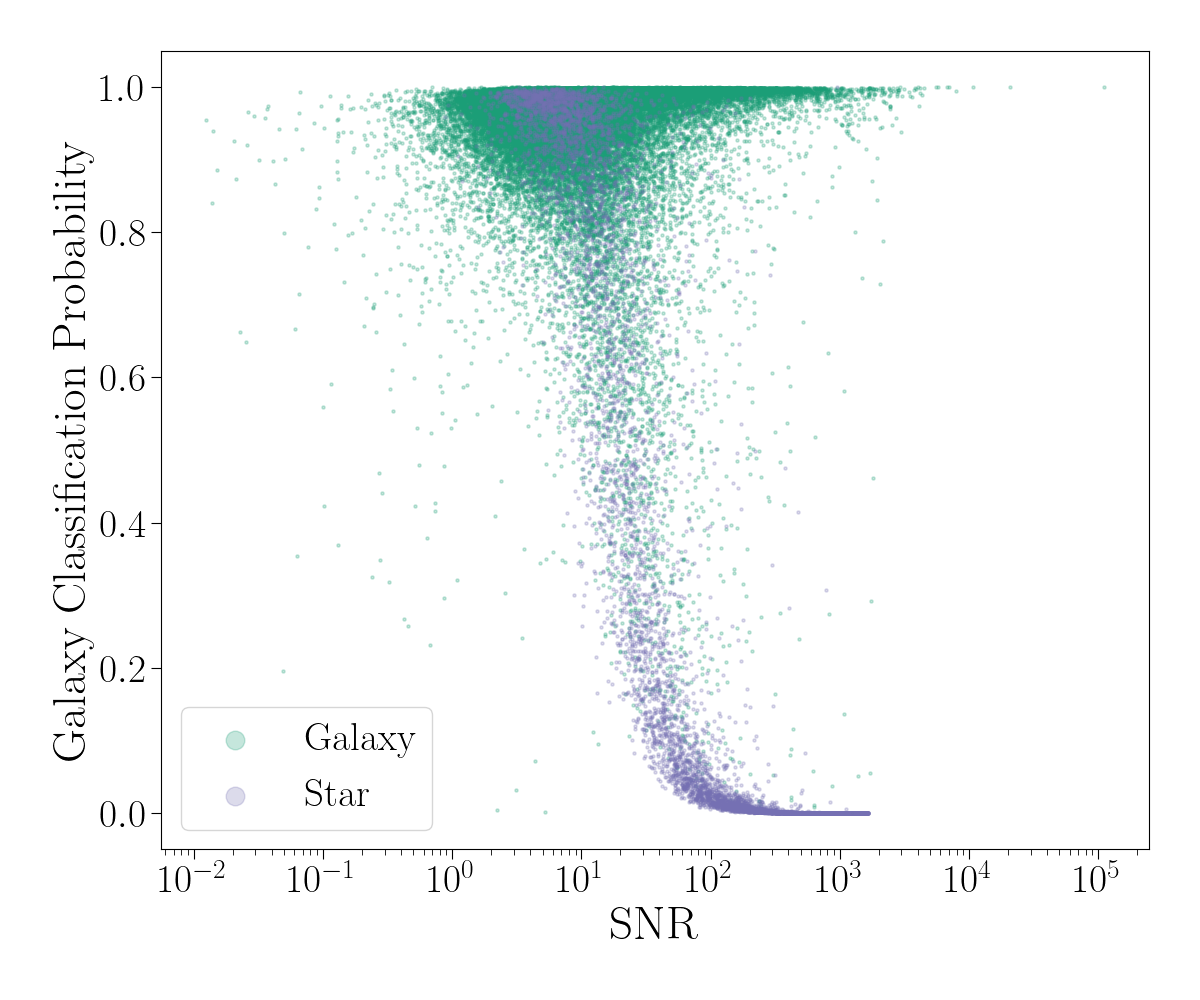
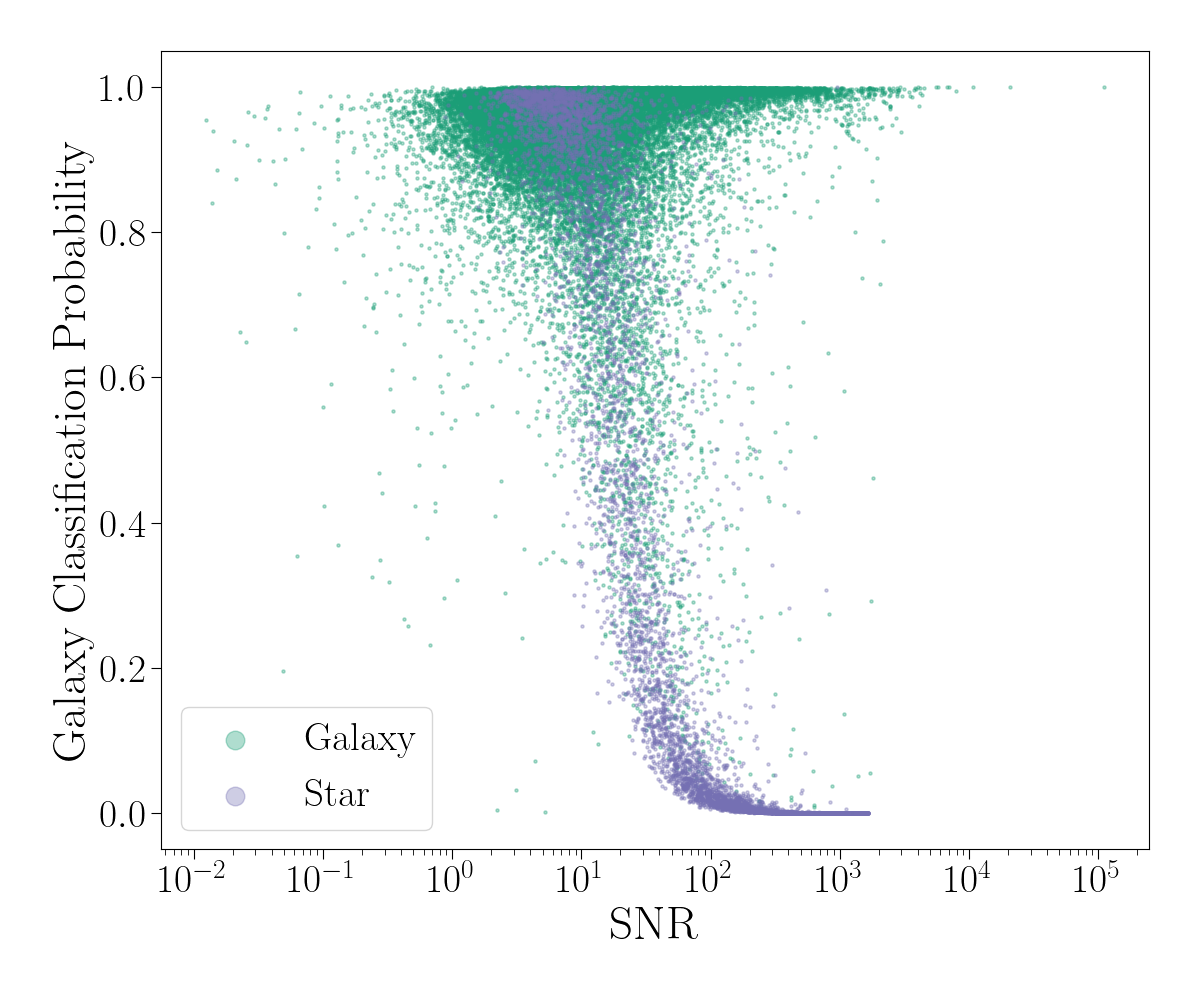
alpha

Changed region(s): [[0.3083, 0.062, 0.7708, 0.62]]

diff --git a/experiment/scripts_figures/binary_figures.py b/experiment/scripts_figures/binary_figures.py
@@ -220,7 +220,7 @@ class BinaryFigures(BlissFigure):
             probs[galaxy_mask],
             marker="o",
             s=5,
-            alpha=0.25,
+            alpha=0.35,
             color=c1,
             label=r"\rm Galaxy",
         )
@@ -229,7 +229,7 @@ class BinaryFigures(BlissFigure):
             probs[star_mask],
             marker="o",
             s=5,
-            alpha=0.25,
+            alpha=0.35,
             color=c2,
             label=r"\rm Star",
         )
